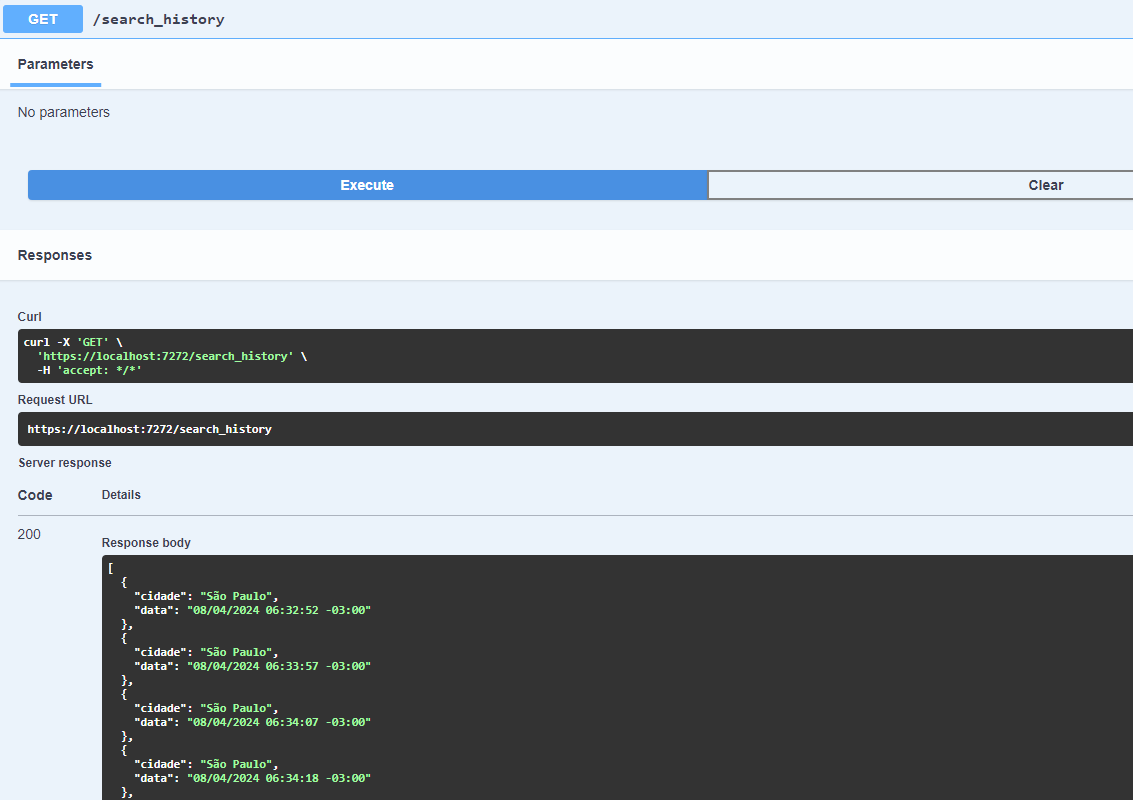
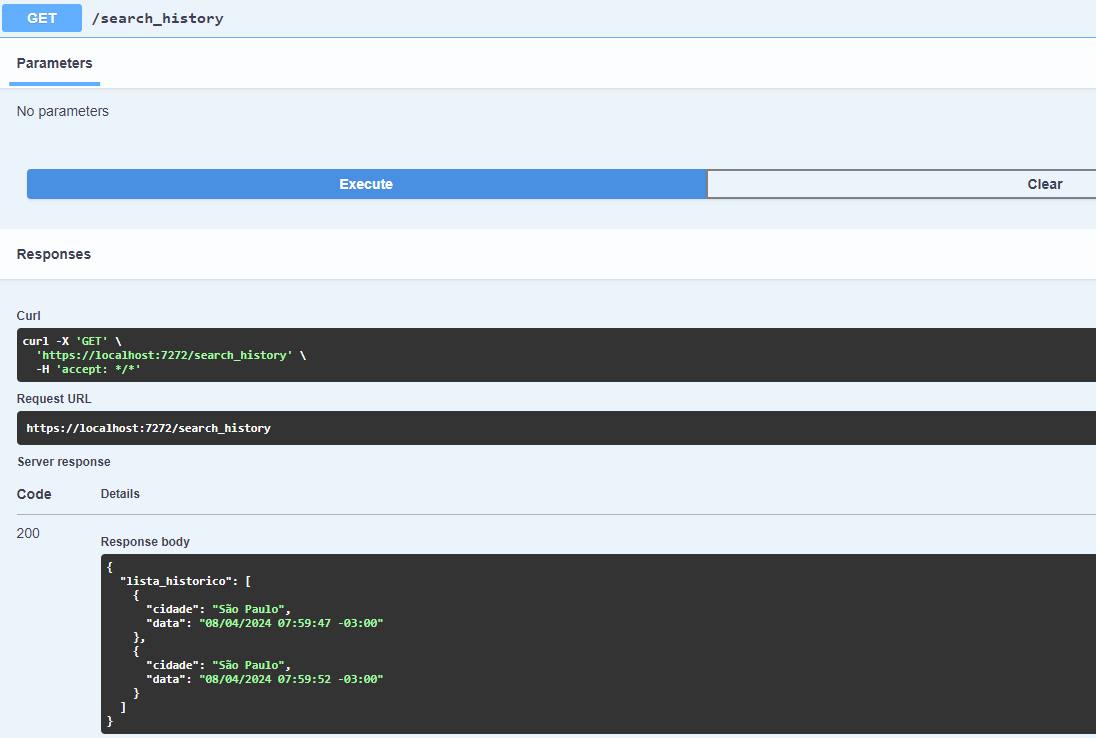
atualizando readme

diff --git a/README.md b/README.md
@@ -90,23 +90,21 @@ A solução para esse problema é aguardar alguns instantes até que o site Open
 #### Exemplo de retorno:
 
 ```
-    [
-      {
-        "cidade": "São Paulo",
-        "data": "08/04/2024 06:32:52 -03:00"
-      },
-      {
-        "cidade": "São Paulo",
-        "data": "08/04/2024 06:33:57 -03:00"
-      },
-     
-      ...
+    {
+  "lista_historico": [
+    {
+      "cidade": "São Paulo",
+      "data": "08/04/2024 08:54:01 -03:00"
+    },
 
-      {
-        "cidade": "Santo André",
-        "data": "08/04/2024 06:40:14 -03:00"
-      }
-    ]
+    ...
+
+    {
+      "cidade": "Santos",
+      "data": "08/04/2024 08:54:06 -03:00"
+    }
+  ]
+}
 ```
 
 ### Exemplo de consulta de logs
